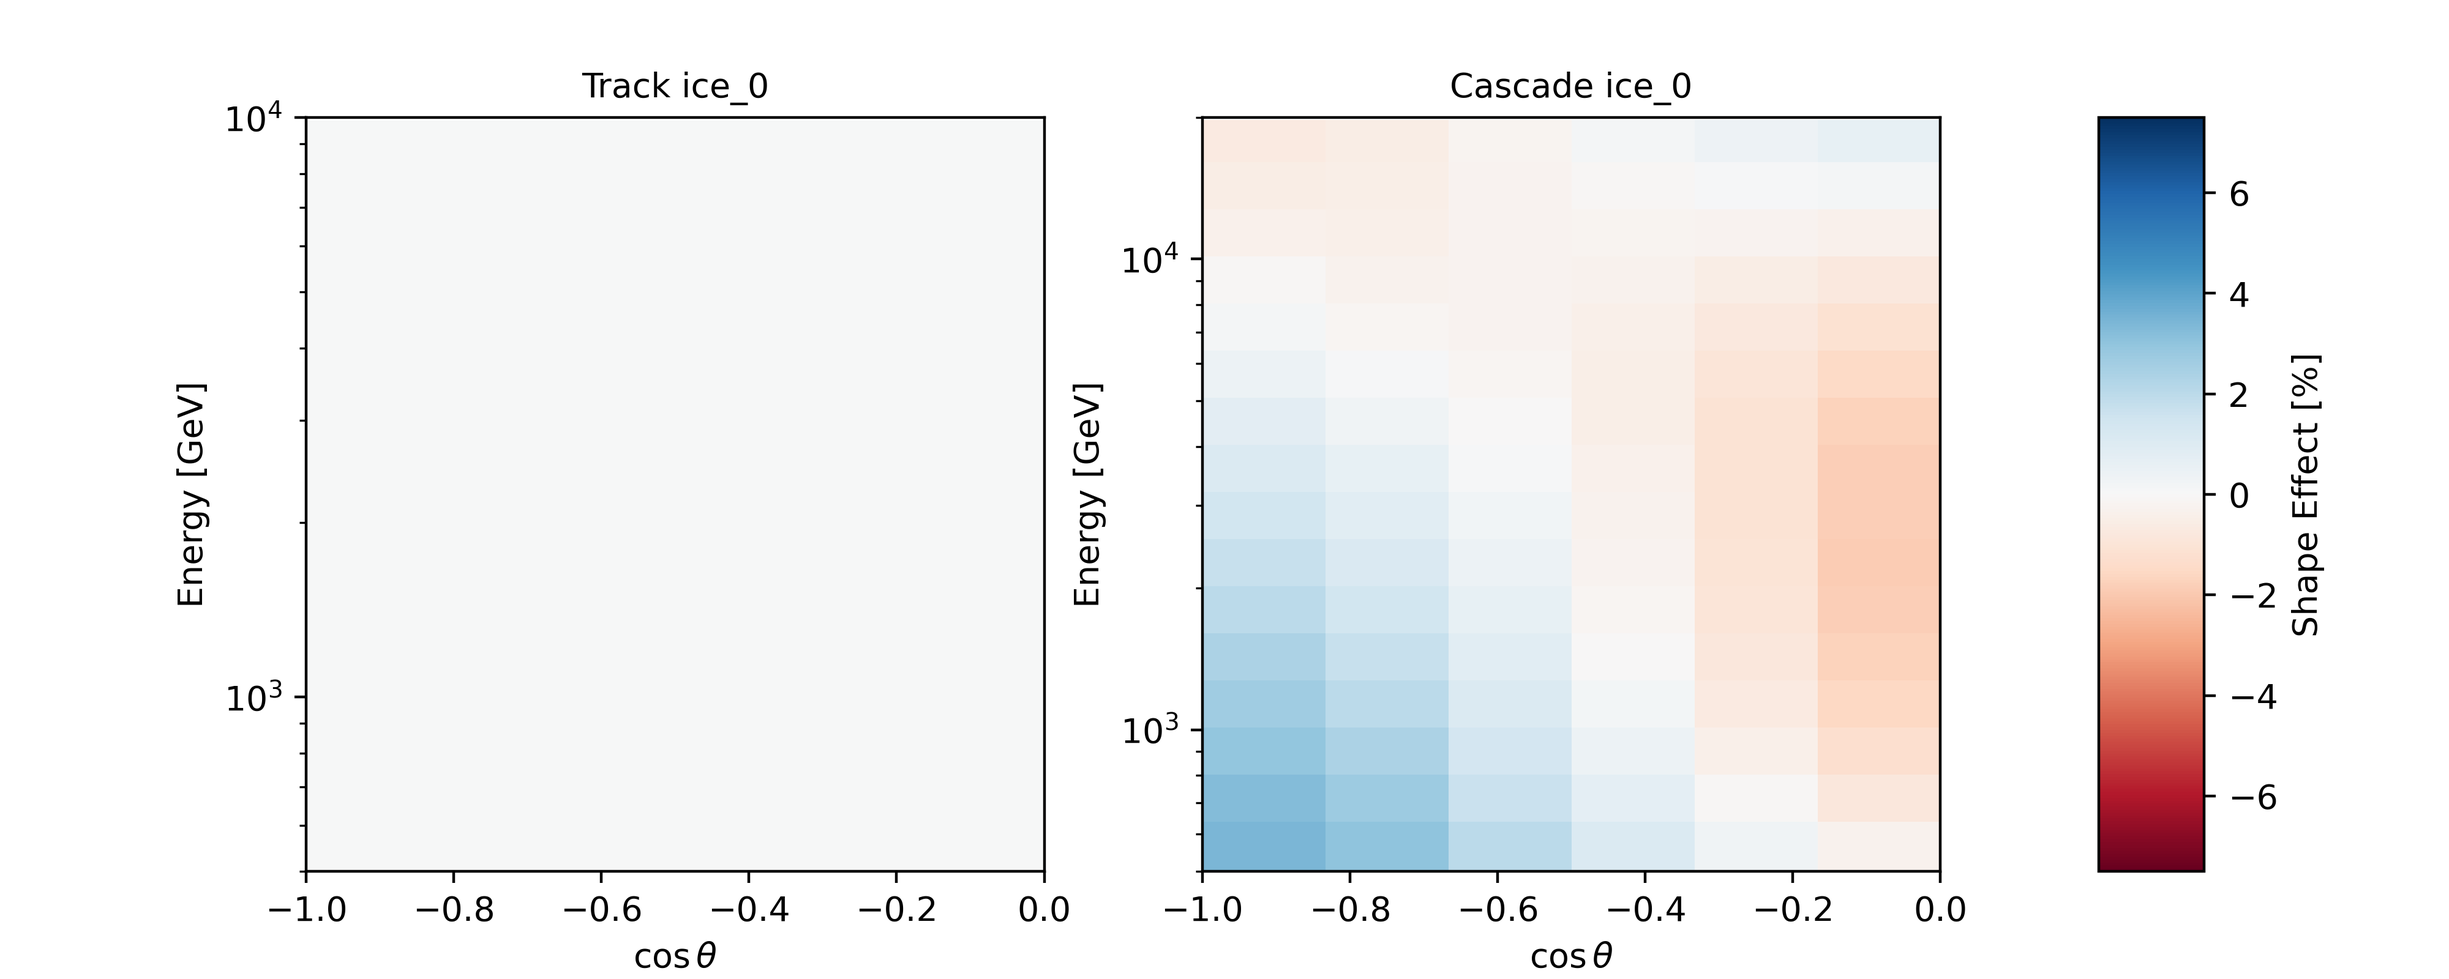
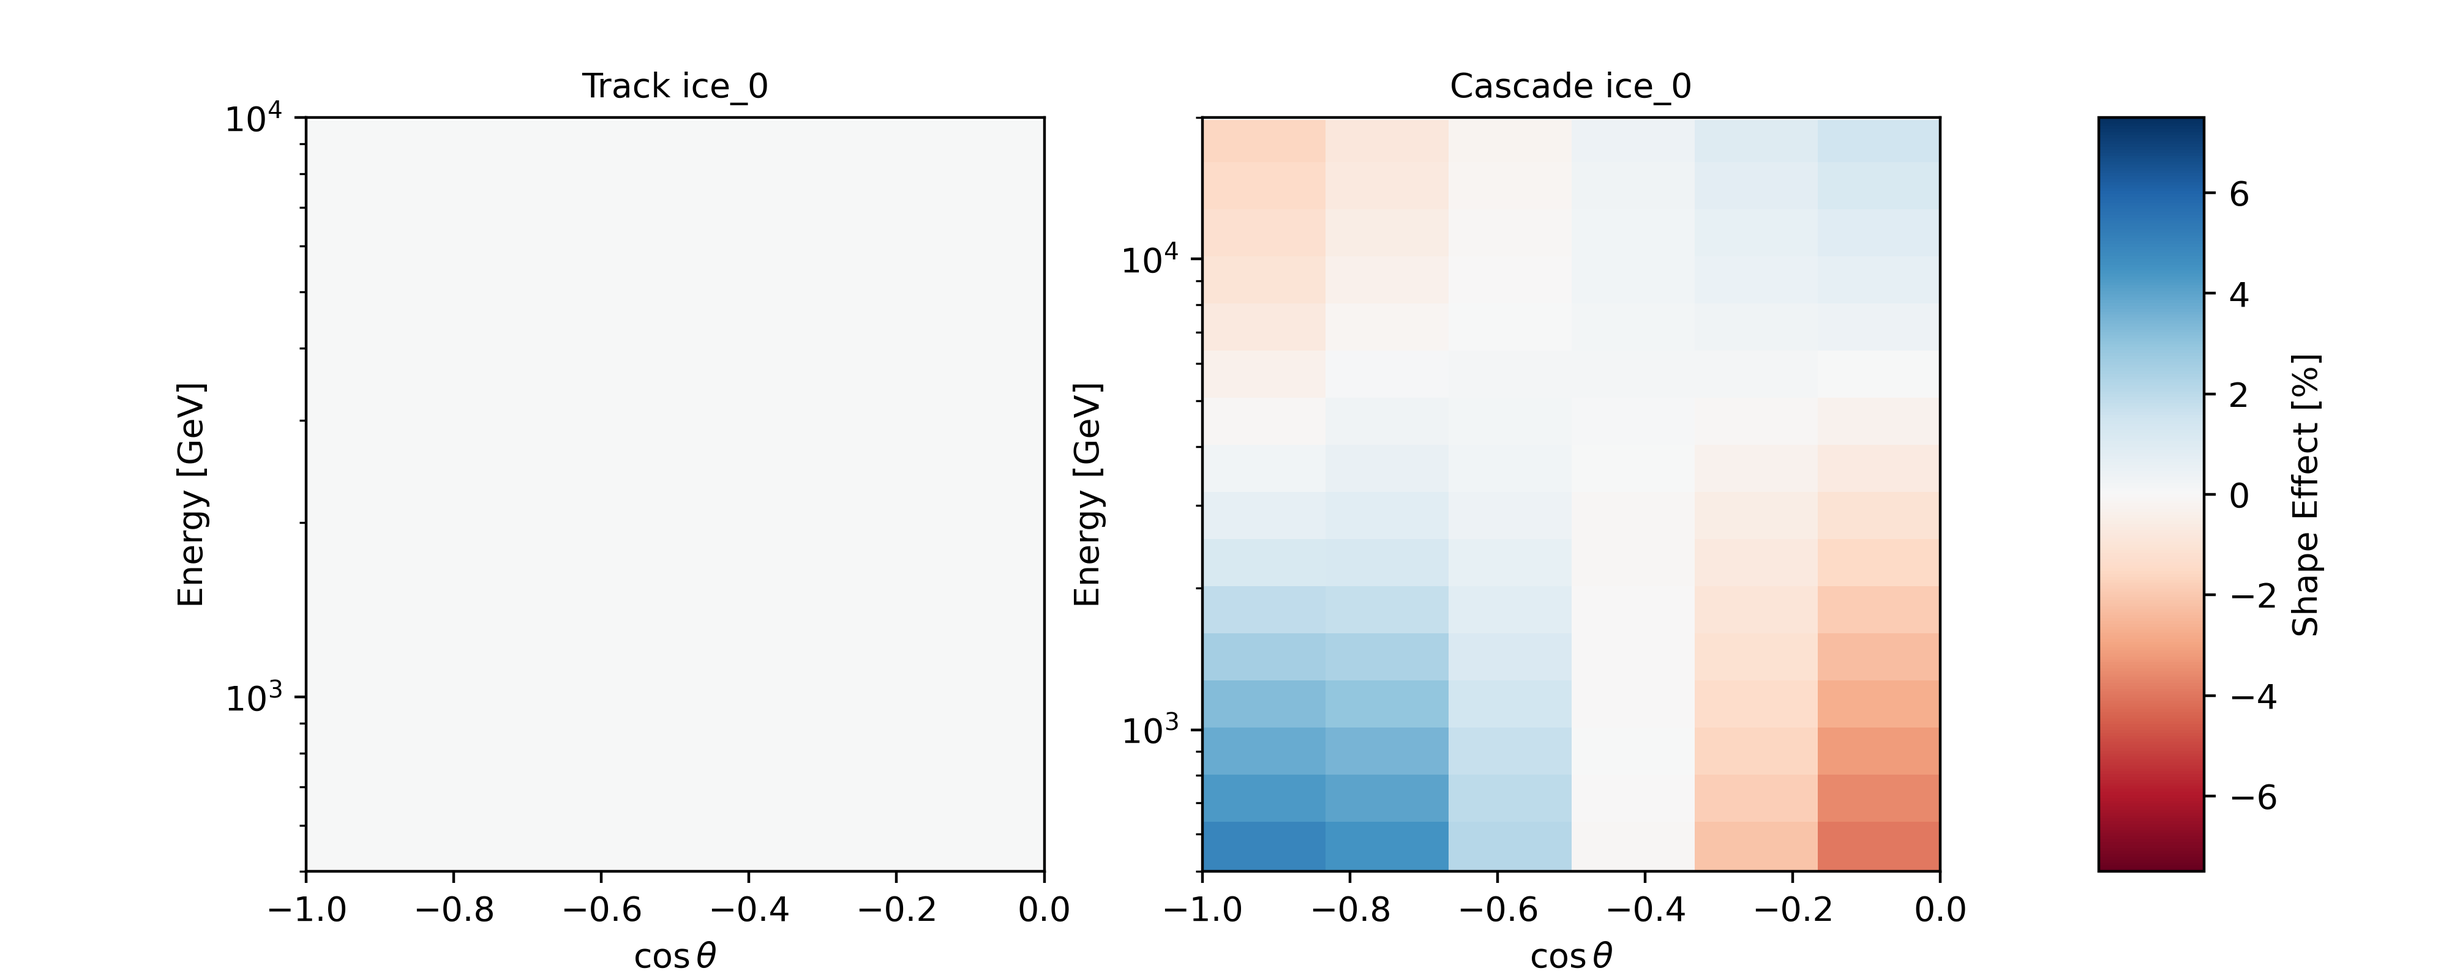
various additions, fixes

diff --git a/systematics.tex b/systematics.tex
@@ -100,6 +100,8 @@ We lay out a procedure then for any given covariance matrix
 \section{Applications}
 \subsection{DOM Efficiency}\label{subsect:domeff}
 
+\paragraph{Cascades}
+
 To evaluate the effects of varying the DOM efficiency on reconstructed event rates, a Monte Carlo sample was generated following the Snowstorm method for low-level systematic uncertainties.
 
 For each batch of ten simulated MC events the DOM efficiency is sampled from its prior. 
@@ -118,14 +120,24 @@ Events can then be reweighted to a new DOM efficiency by evaluating the spline $
     w' = w + w\times \mathcal{S}(\log E_{\nu}^{reco}, \cos\theta_{\nu}^{reco}, \mathcal{D}_{OM})
 \end{equation}
 
-A slice of the full 3D fit for the conventional neutrino fluxes is shown in Figure~\ref{fig:domeff_fit}.
+A slice of the full 3D fit for the conventional neutrino fluxes is shown in Figure~\ref{fig:domeff_fit}, and the effects on overall reconstructed even rates are shown for cascades on the right of Figure~\ref{fig:domeff_analysis}.
 \begin{figure}
     \centering
-    \includegraphics[width=0.8\linewidth]{figures/atmConv_logE_3.6_cosz_-0.25.png}
+    \includegraphics[width=0.75\linewidth]{figures/atmConv_logE_3.6_cosz_-0.25.png}
     \caption{The predicted number of events in reconstructed space for a bin centered at $\log E_{\nu}^{reco}=3.6$ and $\cos\theta_{\nu}^{reco}=0.25$ as a function of the DOM efficiency. The MC data are represented by orange dots, and the spline fit is the trend in blue. The gray shaded region represent the extents of the spline, and the red bands represents prior-allowed region.}\label{fig:domeff_fit}
 \end{figure}
 
-The effects on overall reconstructed even rates are shown in Figure~\ref{fig:domeff_analysis} for tracks (left) and cascades (right). 
+
+
+
+\paragraph{Tracks}
+
+For the track sample, discrete Monte Carlo samples were generated for DOM efficiencies of 1.23, 1.25, 1.27, 1.30, and 1.33. 
+For each DOM Efficiency, a 2D spline was done to the expected number of events in the sample at the central expectation. 
+Each of these splines was then stacked into a 3D spline, which allows for the continuous sampling of the event rate as a function of zenith, energy, and DOM efficiency. 
+The effects on overall reconstructed even rates are shown for tracks on the left of Figure~\ref{fig:domeff_analysis}.
+
+Both tracks and cascades were observed to be effected nearly identically by the uncertainty in DOM efficiency. 
 
 \begin{figure}
     \centering
@@ -252,29 +264,31 @@ A table of spline fits is shown below in Figure~\ref{fig:gradients}.
 
 \begin{figure}
     \centering
-    \includegraphics[width=0.3\linewidth]{figures/spline_amp00_gradient.png}%
-    \includegraphics[width=0.3\linewidth]{figures/spline_amp01_gradient.png}%
-    \includegraphics[width=0.3\linewidth]{figures/spline_amp02_gradient.png}\\
-    \includegraphics[width=0.3\linewidth]{figures/spline_amp03_gradient.png}%
-    \includegraphics[width=0.3\linewidth]{figures/spline_amp04_gradient.png}%
-    \includegraphics[width=0.3\linewidth]{figures/spline_phase01_gradient.png}\\
-    \includegraphics[width=0.3\linewidth]{figures/spline_phase02_gradient.png}%
-    \includegraphics[width=0.3\linewidth]{figures/spline_phase03_gradient.png}%
-    \includegraphics[width=0.3\linewidth]{figures/spline_phase04_gradient.png}
-    \caption{Evaluations of the Photospline~\cite{WHITEHORN20132214} spline-fits to the 2D gradients as functions of energy and zenith. Left to right from top to bottom: Amplitude 0, Amplitude 1, Amplitude, 2, Amplitude 3, Amplitude 4, Phase 1, Phase 2, Phase 3, Phase 4.}\label{fig:gradients}
+    \includegraphics[width=0.24\linewidth]{figures/spline_amp00_gradient.png}%
+    \includegraphics[width=0.24\linewidth]{figures/spline_amp01_gradient.png}%
+    \includegraphics[width=0.24\linewidth]{figures/spline_amp02_gradient.png}%
+    \includegraphics[width=0.24\linewidth]{figures/spline_amp03_gradient.png}\\
+    \includegraphics[width=0.24\linewidth]{figures/spline_amp04_gradient.png}%
+    \includegraphics[width=0.24\linewidth]{figures/spline_phase01_gradient.png}%
+    \includegraphics[width=0.24\linewidth]{figures/spline_phase02_gradient.png}%
+    \includegraphics[width=0.24\linewidth]{figures/spline_phase03_gradient.png}\\
+    \includegraphics[width=0.24\linewidth]{figures/spline_phase04_gradient.png}%
+    \includegraphics[width=0.24\linewidth]{figures/spline_phase05_gradient.png}%
+    \caption{Evaluations of the Photospline~\cite{WHITEHORN20132214} spline-fits to the 2D gradients as functions of energy and zenith. Left to right from top to bottom: Amplitude 0, Amplitude 1, Amplitude, 2, Amplitude 3, Amplitude 4, Phase 1, Phase 2, Phase 3, Phase 4, and Phase 5.}\label{fig:gradients}
 \end{figure}
 
 Each of these were then implemented in our fitting framework, and the effects in analysis space were calculated. 
 Using the previously calculated covariance matrix and the methods for de-correlating the nuisance parameters from Section~\ref{sect:down}, uncorrelated nuisance parameters were constructed as a simple basis change from the original amplitude/phase basis. 
-Of the nine new parameters, only four were found to have a significant impact on analysis rates. The other five are kept at their central values in fits. 
-The strongest four are shown in Figure~\ref{fig:rotata}.
+Of the ten new parameters, only five were found to have a significant impact on analysis rates. The other five are kept at their central values in fits. 
+The strongest five are shown in Figure~\ref{fig:rotata}.
 
 \begin{figure}
     \centering
-    \includegraphics[width=0.45\linewidth]{figures/amp00_rot.png}%
-    \includegraphics[width=0.45\linewidth]{figures/amp01_rot.png}\\
-    \includegraphics[width=0.45\linewidth]{figures/amp03_rot.png}%
-    \includegraphics[width=0.45\linewidth]{figures/amp04_rot.png}
+    \includegraphics[width=0.45\linewidth]{figures/systematics/ice_0.png}%
+    \includegraphics[width=0.45\linewidth]{figures/systematics/ice_1.png}\\
+    \includegraphics[width=0.45\linewidth]{figures/systematics/ice_3.png}%
+    \includegraphics[width=0.45\linewidth]{figures/systematics/ice_5.png}\\
+    \includegraphics[width=0.45\linewidth]{figures/systematics/ice_6.png}
     \caption{Shape effects from perturbing each of the uncorrelated nuisance parameters by one sigma. Note that although named after phases and amplitudes, perturbing each of these is identical to perturbing a linear combination of all amplitudes and phases simultaneously.}\label{fig:rotata}
 \end{figure}
 
@@ -649,7 +663,9 @@ Because of this, these extra cuts are not applied in this analysis.
 
 \subsection{Normalization}
 
-A parameter allowing for the overall normalization of the entire neutrino flux is also allowed to float. It is given a conservative 20\% prior driven by a number of effects: livetime O(<1\%), ice density O(<1\%), volume O(9\%)~\cite{Sandrock_2020}, and the neutrino-ice cross-section O(10\%)~\cite{candido2023neutrino}.
+A parameter allowing for the overall normalization of the entire neutrino flux is also allowed to float. 
+It is given a conservative 20\% prior driven by a number of effects: livetime O(<1\%), ice density O(<1\%), volume O(9\%)~\cite{Sandrock_2020}, and the neutrino-ice cross-section O(10\%)~\cite{candido2023neutrino}. 
+This normalization does not effect the cosmic ray muon background; it has an independent normalization factor. 
 
 \subsection{All Systematic Uncertainties}
 
@@ -680,7 +696,8 @@ A table showing parameterizations of all included systematic uncertainties, thei
         holeice p$_{1}$ & 0.0 & $0\pm 1.0$ & [-4,4]&Cascades\\
         ice\_0$^{\ddag}$ & 0.0 & $0\pm 1.0$ & [-4,4]&Cascades\\
         ice\_1$^{\ddag}$ & 0.0 & $0\pm 1.0$ & [-4,4]&Cascades\\
-        ice\_4$^{\ddag}$ & 0.0 & $0\pm 1.0$ & [-4,4]&Cascades\\
+        ice\_3$^{\ddag}$ & 0.0 & $0\pm 1.0$ & [-4,4]&Cascades\\
+        ice\_5$^{\ddag}$ & 0.0 & $0\pm 1.0$ & [-4,4]&Cascades\\
         ice\_6$^{\ddag}$ & 0.0 & $0\pm 1.0$ & [-4,4]&Cascades\\
         ice\_grad\_0\_rotated$^{**}$ & 0.0 & $0\pm 1.0$ & [-4,4] & Tracks\\
         ice\_grad\_0\_rotated$^{**}$ & 0.0 & $0\pm 1.0$ & [-4,4]& Tracks \\

diff --git a/final_analysis.tex b/final_analysis.tex
@@ -12,11 +12,11 @@ Sterile neutrino points are chosen uniformly over $\left|U_{\mu 4}\right|^{2}=\s
 A 16 by 16 grid in the unitary mixing matrix elements, and five discrete mass-squared splittings are explored. 
 These five values are 
 \begin{enumerate}
-    \item 1.0eV$^{2}$ - a commonly chosen value used in sterile oscillations studies. 
+    \item 1.0eV$^{2}$ - a commonly chosen value used in sterile oscillations studies~\cite{Aartsen_2017_dc, PhysRevD.91.052019, PhysRevD.105.052001}. 
     \item 3.5eV$^{2}$ - a value close to the best-fit point from BEST~\cite{barinov2021results}
     \item 4.5eV$^{2}$ - a value close to the eight-year IceCube through-going track analysis~\cite{Aartsen_2020, Aartsen_2020_prd}
     \item 10.0eV$^{2}$ - an intermediate value between those above, and larger mass-squared splitting
-    \item 100.0eV$^{2}$ - a larger mass-squared splitting where fast oscillations will dominate the signal. 
+    \item 100.0eV$^{2}$ - a larger mass-squared splitting where fast oscillations will dominate the signal
 \end{enumerate}
 
 \section{Event Selections}
@@ -82,6 +82,14 @@ It uses an additional set of cuts
     \item Discard events with $\cos\theta_{\mu}^{reco}>0.05$.
 \end{enumerate}
 
+With these event selections, we strong appearance and disappearance signatures are possible. Two possible signatures of sterile neutrino oscillations using these event samples are shown in Figure~\ref{fig:sterile_signature} in analysis space. 
+
+\begin{figure}
+    \centering
+    \includegraphics[width=0.45\linewidth]{figures/meows_bf_nofit.png}%
+    \includegraphics[width=0.45\linewidth]{figures/with_th34_nofit.png}
+    \caption{Two signatures of sterile neutrinos in reconstructed space. On the left, the expected disappearance for tracks (left) and cascades (right) for a sterile neutrino model with $\sin^{2}(2\theta_{24})=0.1$ and $\Delta m_{41}^{2}=4.5$ eV$^{2}$. The same is shown on the right but with $\sin^{2}(2\theta_{34})=0.05$.}\label{fig:sterile_signature}
+\end{figure}
 
 \section{Fast Monte Carlo, Event Merging}
 
@@ -97,7 +105,7 @@ As an example, a fastmode scaling of 0.5 would use twice as many bins along each
 Events within each of these fine bins are then merged into meta-events; the separate flux-weights are added directly, and a weighted-average is done for analysis quantities like energy and zenith.
 The weighted average is calculated according to Equation~\eqref{eq;weighted_fm} for analysis quantity $A$ in fastmode bin $\alpha$.
 \begin{equation}\label{eq;weighted_fm}
-A_{meta}^{\alpha} = \dfrac{\sum_{i}^{n} A_{\alpha, i} \left(w_{\alpha, i}^{conv} + w_{\alpha,i}^{prompt} + w_{\alpha,i}^{astro}\right) }{\sum_{i}^{n} w_{\alpha, i}^{conv} + w_{\alpha,i}^{prompt} + w_{\alpha,i}^{astro}}
+A_{meta}^{\alpha} = \dfrac{\sum_{i}^{n} A_{\alpha, i} \left(w_{\alpha, i}^{conv} + w_{\alpha,i}^{prompt} + w_{\alpha,i}^{astro}\right) }{\sum_{i}^{n} \left(w_{\alpha, i}^{conv} + w_{\alpha,i}^{prompt} + w_{\alpha,i}^{astro}\right)}
 \end{equation}
 The sum is carried out over all $n$ events in a fastmode bin. 
 These meta-events are then saved with their summed flux-weights and weighted-average analysis quantities.
@@ -147,6 +155,20 @@ where $\vec{\Theta}_{min}$ is the sterile hypothesis that maximizes the likeliho
 \section{Tests}
 
 A series of tests were performed to validate the implementation of the nuisance parameters and verify the performance of the fitting framework. 
+
+\subsection{Previous Results Cross-Check}
+
+Using only the track sample, we verified we were able to recover similar sensitivities to the original eight-year sensitivity published in References~\cite{Aartsen_2020} and~\cite{Aartsen_2020_prd}. 
+To do this, additional fluxes, gradients, and Fast MC, were generated in logarithmic steps in $\sin^{2}(2\theta_{14})$ and $\Delta m_{41}^{2}$ space.
+An Asimov sensitivity scan, fitting only to the track sample, was then carried out in this space; the resulting sensitivities are shown in Figure~\ref{fig:comparison} with the previous sensitivities overlain. 
+
+TODO: update the plot when the new comparison is done with all of the new machinery! 
+
+\begin{figure}
+    \centering
+    \includegraphics[width=0.6\linewidth]{figures/2d_compare_llh.png}
+    \caption{The 90\% CL sensitivity contours for two degrees of freedom, using only the track sample, as determined for this analysis (orange) and the original 8-year tracks sample (purple).}\label{fig:comparison}
+\end{figure}
 
 \subsection{Inject-Recover Systematic Tests}
 
@@ -254,7 +276,11 @@ Each of these points are listed in Table~\ref{table:injected_signals}.
 Then, we ran a full fit-scan on an Asimov realization generated for each of these simulated signals. 
 The contours are shown in the Figure FIG. 
 
-
 \textit{Discussion of the constraints}
+
+
+\section{Results}
+
+\section{Conclusions}
 
 \end{document}

diff --git a/degg_fat.tex b/degg_fat.tex
@@ -6,9 +6,11 @@
 
 \section{IceCube Upgrade}
 
-Introduce physics goals of IceCube upgrade, show some plots that compare old v new event displays. 
+The IceCube Upgrade~\cite{ishihara2019icecube} is a planned expansion of the IceCube array designed to improve its sensitivity to low-energy neutrino events, which at the moment has a planned deployment for the 2025/6 south-pole season.
+It will consist of seven additional strings of 700 optical sensors, which will be embedded near the bottom-center of the existing IceCube array where the ice is optically cleanest. 
+An illustration of the Upgrade is shown in Figure~\ref{fig:upgrade_layout}
+Two new optical sensors will be installed in Upgrade: the Multi-PMT Digital Optical Module (mDOM)~\cite{classen2019multipmt}, and the Ellipsoid Glass for Gen2 (D-Egg) module~\cite{degg}. 
 
-Upgrade is shown in Figure~\ref{fig:upgrade_layout}
 
 \begin{figure}
     \centering
@@ -16,6 +18,18 @@ Upgrade is shown in Figure~\ref{fig:upgrade_layout}
     \caption{A top-down view of the planned installation locations of IceCube Upgrade strings relative to existing IceCube and DeepCore strings.}
     \label{fig:upgrade_layout}
 \end{figure}
+
+These modules are designed to improve the photon detector efficiency and overall calibration of the detector within a small 2 MT volume within the greater array. 
+This will allow for the use of the main IceCube array to act as a veto layer for high-precision measurements of neutrino interactions in the $\mathcal{O}(1\sim 10\text{GeV})$ energy range. 
+This will allow for the measurement of tau neutrino appearances with high precision, allow for cutting-edge measurements of neutrino oscillations, and to probe the unitarity of the Pontecorvo-Maki-Nakagawa-Sakata neutrino mixing matrix. 
+Figure FIG, from Reference~\cite{ishihara2019icecube}, shows how well IceCube Upgrade will be able to constraint three-neutrino oscillations using only three years of data. 
+
+\begin{figure}
+    \centering
+    \includegraphics[width=0.85\linewidth]{figures/upgrade_physics.png}
+    \caption{On the left, the $1\sigma$ sensitivity of the IceCube Upgrade (and other experiments) to constrain the normalization of the tau normalization, where we assume a normalization of one with one year of data. On the right, the predicted sensitivity of IceCube Upgrade to the 3$\nu$ oscillations parameters $\sin^{2}(\theta_{24})$ and $\Delta m_{32}^{2}$ with comparisons to References~\cite{PhysRevLett.120.071801, PhysRevD.98.052006, PhysRevLett.120.211801, WHITEHEAD2016130,Haegel_2017}}
+\end{figure}
+
 
 \section{IceCube D-Eggs}
 

diff --git a/introduction.tex b/introduction.tex
@@ -32,16 +32,20 @@ Of particular interest to neutrino telescopes, matter effects can result in the 
 \subsection{Neutrino oscillations}
 \index{neutrino!oscillations}
 
-First, a review of how these oscillations happen is of merit. From the solar neurino problem CITE it is understood that neutrinos oscillate, and from that we understand they have mass. To understand \textit{why} that is the case we consider that the neutrinos mass and flavor eigenstates are not identical. That there is some unitary matrix, 
+First, a review of how these oscillations happen is of merit. 
+For decades, now, it has been well understood that the neutrinos have multiple distinct flavor and mass eigenstates.
+A consequence of this is that a neutrino prepared in a definite eigenstate will oscillate through different superpositions of its mass eigenstates, and when the flavor is measured after some time it may be observed to be in a distinct flavor eigenstate from that in which it was created. 
+To understand \textit{why} that is the case we consider that there is some unitary matrix, 
 \begin{equation}
     U_{\text{PMNS}} = \left(\begin{array}{ccc} U_{e1} & U_{e2} & U_{e3} \\ U_{\mu 1} & U_{\mu 2} & U_{\mu 3} \\ U_{\tau 1} & U_{\tau 2} & U_{\tau 3} \end{array}\right)
 \end{equation}
-which allows for transformations from the mass basis to the flavor basis, such that
+which allows for rotations from the mass basis to the flavor basis, such that
 \begin{equation}
     \left(\begin{array}{ccc} \nu_{e} & \nu_{\mu} & \nu_{\tau} \end{array}\right)  = \left(\begin{array}{ccc} U_{e1} & U_{e2} & U_{e3} \\ U_{\mu 1} & U_{\mu 2} & U_{\mu 3} \\ U_{\tau 1} & U_{\tau 2} & U_{\tau 3} \end{array}\right) \left(\begin{array}{c} \nu_{1} \\ \nu_{2} \\ \nu_{3} \end{array}\right).
 \end{equation}
 where $\nu_{i}$, $i\in\left(1,2,3\right)$ is in the mass basis and $i\in\left(e,\mu\tau\right)$ is in the flavor basis. 
-We can, in general then, express a stationary state in one basis in terms of the other basis:
+This is called the Pontecorvo-Maki-Nakagawa-Sakata (PMNS) matrix.
+We can, in general then, express a stationary state in the flavor basis in terms of the mass basis:
 \begin{equation}\label{eq:nunu}
     \ket{\nu_{e}} = U_{e1} \ket{\nu_{1}} + U_{e2} \ket{\nu_{2}} + U_{e3}\ket{\nu_{3}}.
 \end{equation}

diff --git a/main.tex b/main.tex
@@ -11,7 +11,7 @@ usenames,dvipsnames
 % \usepackage[margin=1.0in]{geometry}
 
 \usepackage[square,numbers,comma]{natbib}
-\bibliographystyle{acm}
+\bibliographystyle{unsrtnat}
 \renewcommand\bibname{References}
 % \setcitestyle{authoryear, open={(},close={)},citesep={,},aysep=}
 
@@ -262,11 +262,11 @@ The work presented in this dissertation is as follows:
 
 \textbf{Chapter \ref{chapter:icecube}} will describe the IceCube Neutrino Observatory and the details of its operation. 
 
+\textbf{Chapter~\ref{chapter:sense}} will provide the approximations of the expected sensitivities for this analysis~\cite{PhysRevD.105.052001}. 
+
 \textbf{Chapter \ref{chapter:gen}} will discuss the event generation schema and Monte Carlo simulation procedure IceCube~\cite{ABBASI2021108018}.
 
 \textbf{Chapter~\ref{chapter:unc}} will summarize all the sources of systematic uncertainty relevant for this analysis.
-
-\textbf{Chapter~\ref{chapter:sense}} will provide the approximations of the expected sensitivities for this analysis~\cite{PhysRevD.105.052001}. 
 
 And finally,\textbf{ Chapter~\ref{chapter:res}} will provide the results of this analysis. 
 
@@ -277,19 +277,20 @@ Chapter entries with citations refer to the papers in which the work discussed w
 \chapter{The IceCube Neutrino Observatory}\label{chapter:icecube}
 \subfile{icecube.tex}
 \subfile{degg_fat.tex}
+\chapter{Sterile Neutrino Oscillation Sensitivities}\label{chapter:sense}
+\subfile{sensitivity.tex}
 \chapter{Event Generation and Filters}\label{chapter:gen}
 \subfile{leptons.tex}
 \subfile{generation.tex}
 \chapter{Sources of Systematic Uncertainties}\label{chapter:unc}
 \subfile{systematics.tex}
-\chapter{Sterile Neutrino Oscillation Sensitivities}\label{chapter:sense}
-\subfile{sensitivity.tex}
 \chapter{Joint Sterile Analysis}\label{chapter:res}
 \subfile{final_analysis.tex}
 
 % \subfile{appendix.tex}
 
 % \subfile{bibfile.tex}
+
 \bibliography{main}
 
 %\printindex
